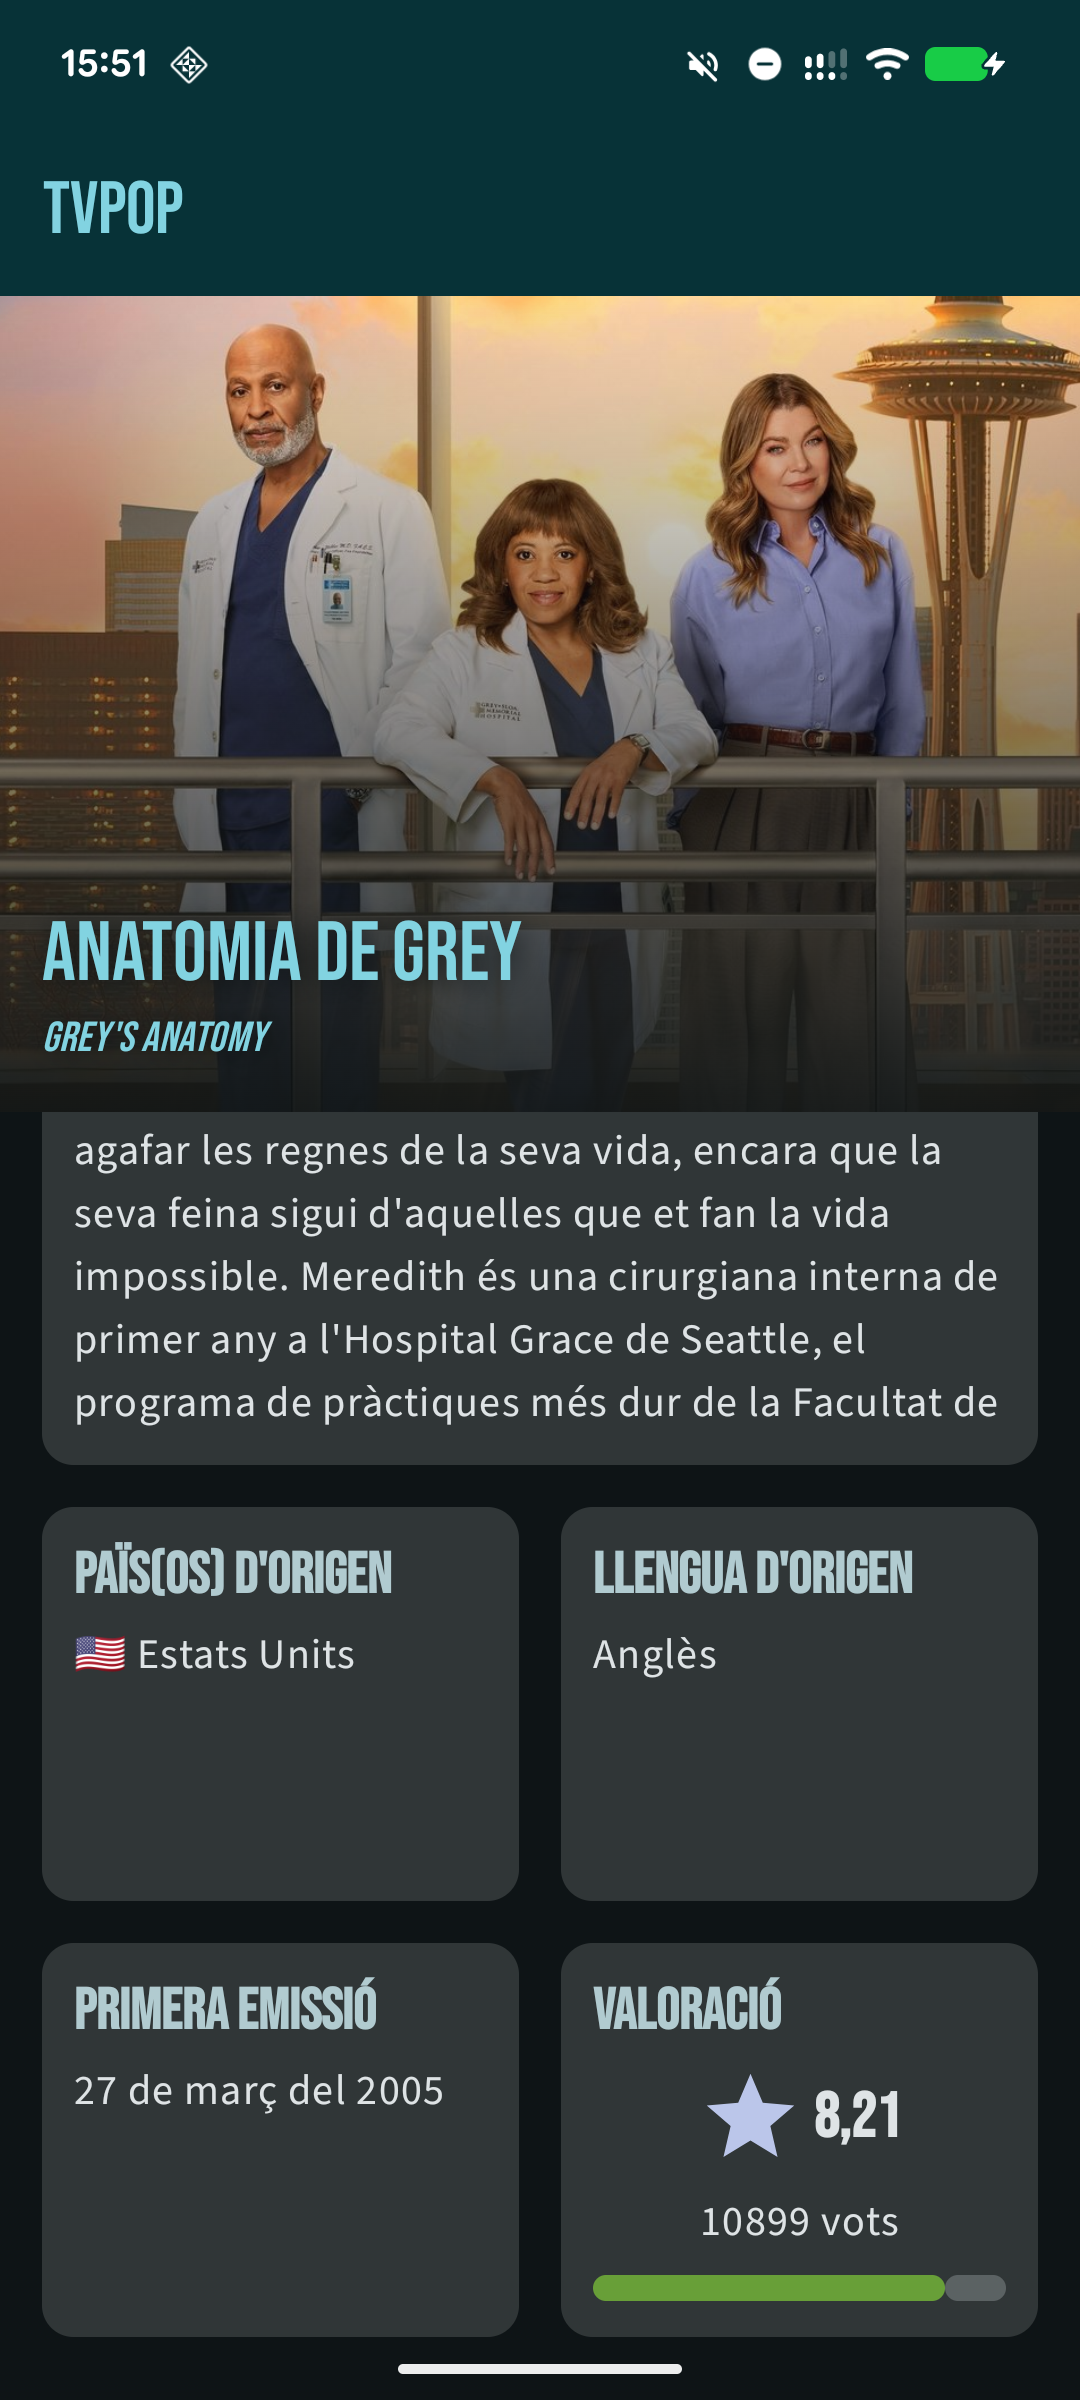
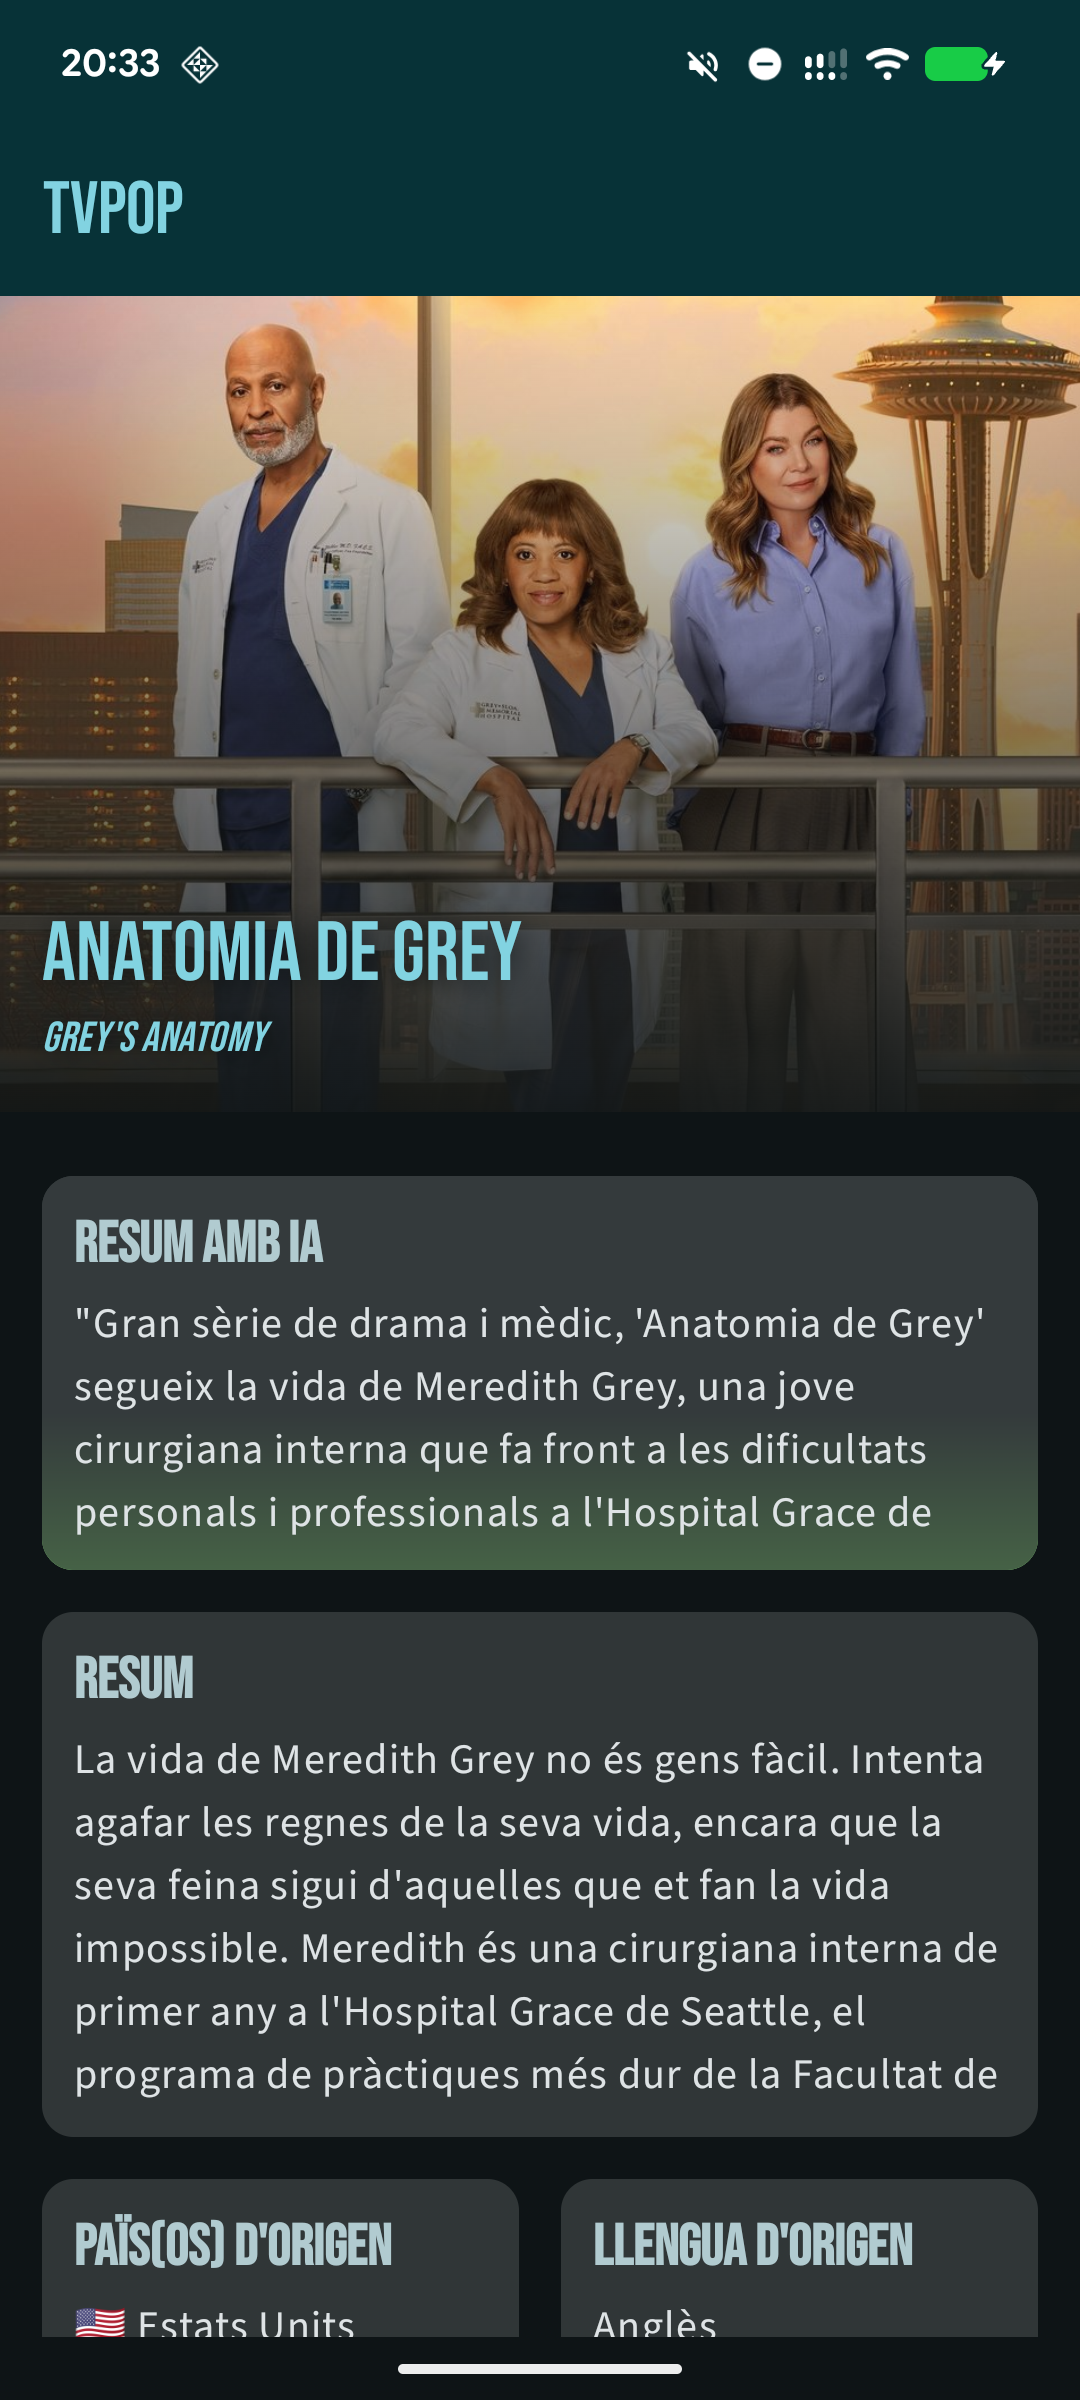
Describir funcionalidad extra en el README y actualizar capturas de pantalla

Changed region(s): [[0.0306, 0.4375, 0.9778, 1.0], [0.0611, 0.0, 0.2139, 0.0312], [0.825, 0.7188, 0.9167, 0.75]]

diff --git a/README.md b/README.md
@@ -22,6 +22,21 @@ periodo de 15 minutos desde la última carga.
 |-------------------------------------------------------------------------------------------------------------------------------------------------------------------------------------------------------|-----------------------------------------------------------------------------------------------------------------------------------------------------------------------------------------------------------------|
 | <img src="screenshots/list_light.png" alt="Vista de la lista de series en modo claro" width="150"> <img src="screenshots/list_dark.png" alt="Vista de la lista de series en modo oscuro" width="150"> | <img src="screenshots/detail_light.png" alt="Vista de detalles de una serie en modo claro" width="150"> <img src="screenshots/detail_dark.png" alt="Vista de detalles de una serie en modo oscuro" width="150"> |
 
+### Funcionalidad extra
+
+Como funcionalidad extra, se ha implementado la **generación de resúmenes** de las series mediante
+un LLM.
+Se ha usado el servicio [Groq](https://groq.com/) para procesar las solicitudes con el
+modelo [Llama 3.1 8B Instant](https://console.groq.com/docs/model/llama-3.1-8b-instant). Se ha
+escogido este modelo por tener el límite más generoso de peticiones gratuitas y por su velocidad
+ante una tasca tan sencilla y no crítica.
+
+Ante las restricciones de tiempo y mi nula experiencia en el entorno de ML/AI en Android, he optado
+por esta solución sencilla para añadir valor a la aplicación. Gracias a la separación por capas, se
+puede modificar la capa de datos fácilmente para cambiar de proveedor de IA o incluso ejecutar un
+modelo en local en un futuro sin afectar al resto del proyecto
+(ver [AISource](app/src/main/java/com/silliconpowerinc/tvpop/data/sources/AISource.kt)).
+
 ## Versiones
 
 Se han incluido tres versiones de la aplicación correspondientes con las versiones pedidas en la
@@ -44,7 +59,7 @@ funcionalidad opcional.
         * Inglés
 * **Versión 3.0** - *[código](https://github.com/usern132/TVPop/tree/v3.0)* |
   *[lanzamiento (APK)](https://github.com/usern132/TVPop/releases/tag/v3.0)*
-    * TODO
+    * Resumen generado por IA
 
 ## Compilación
 
